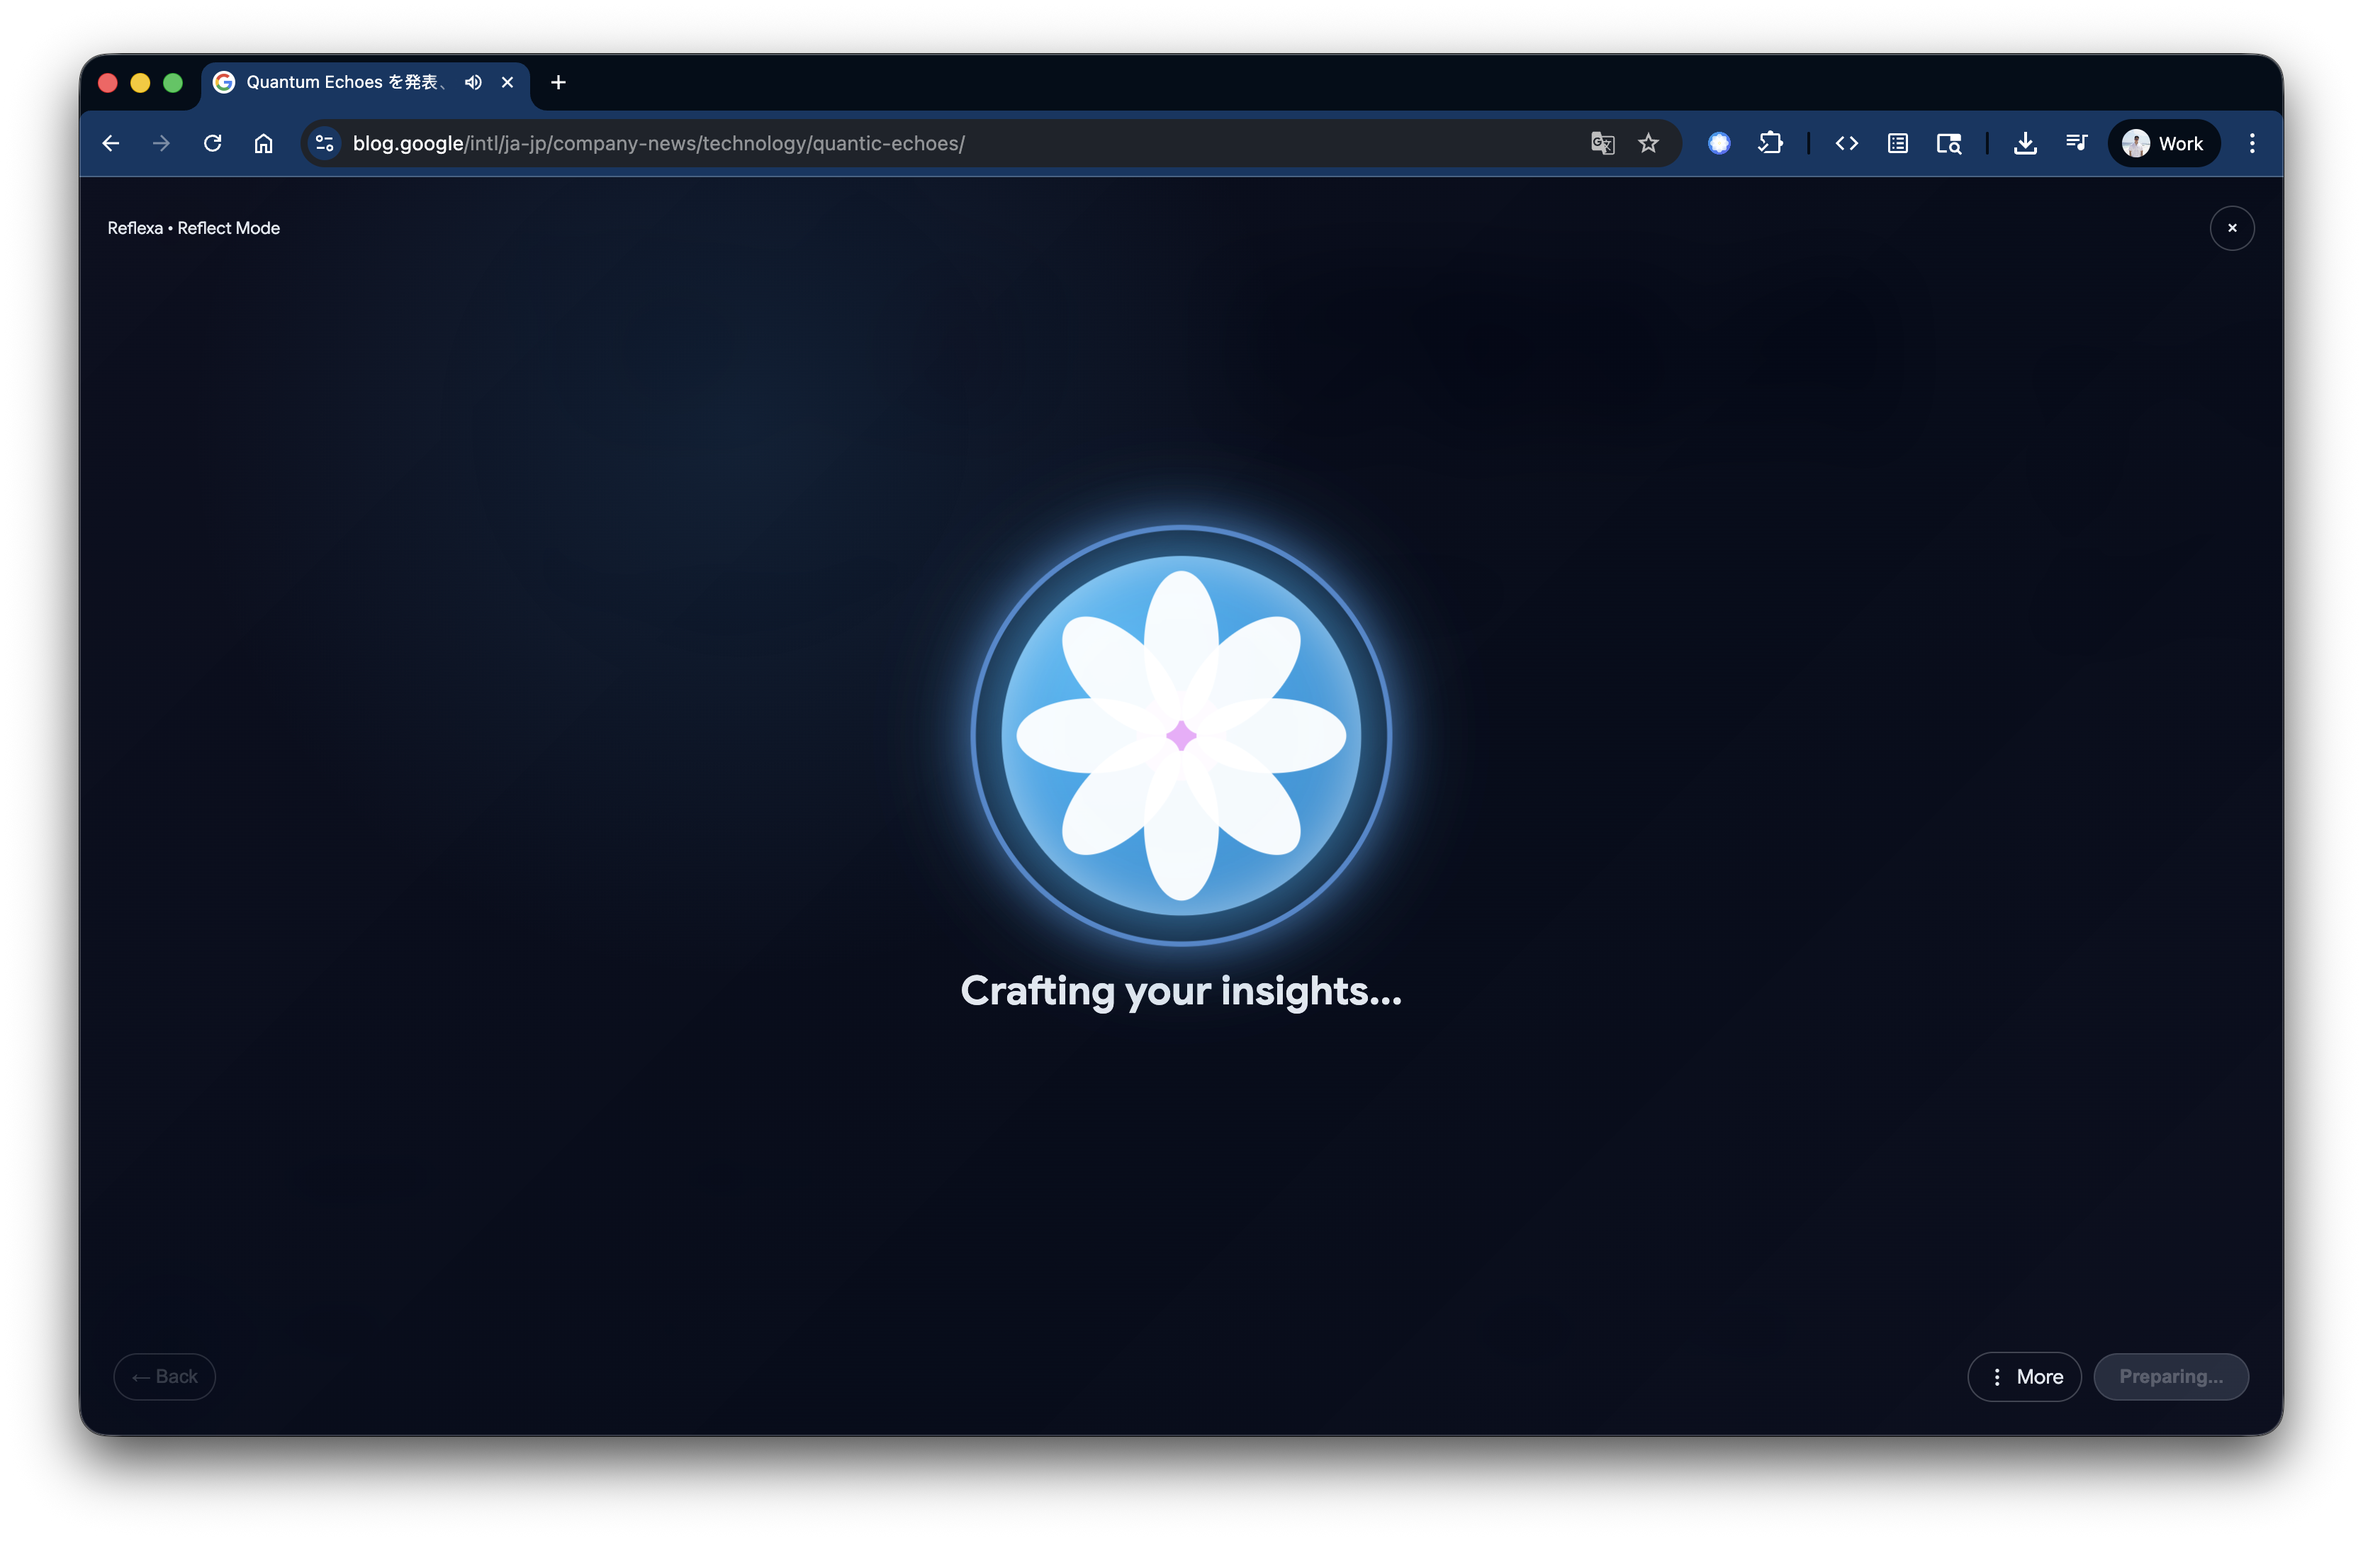
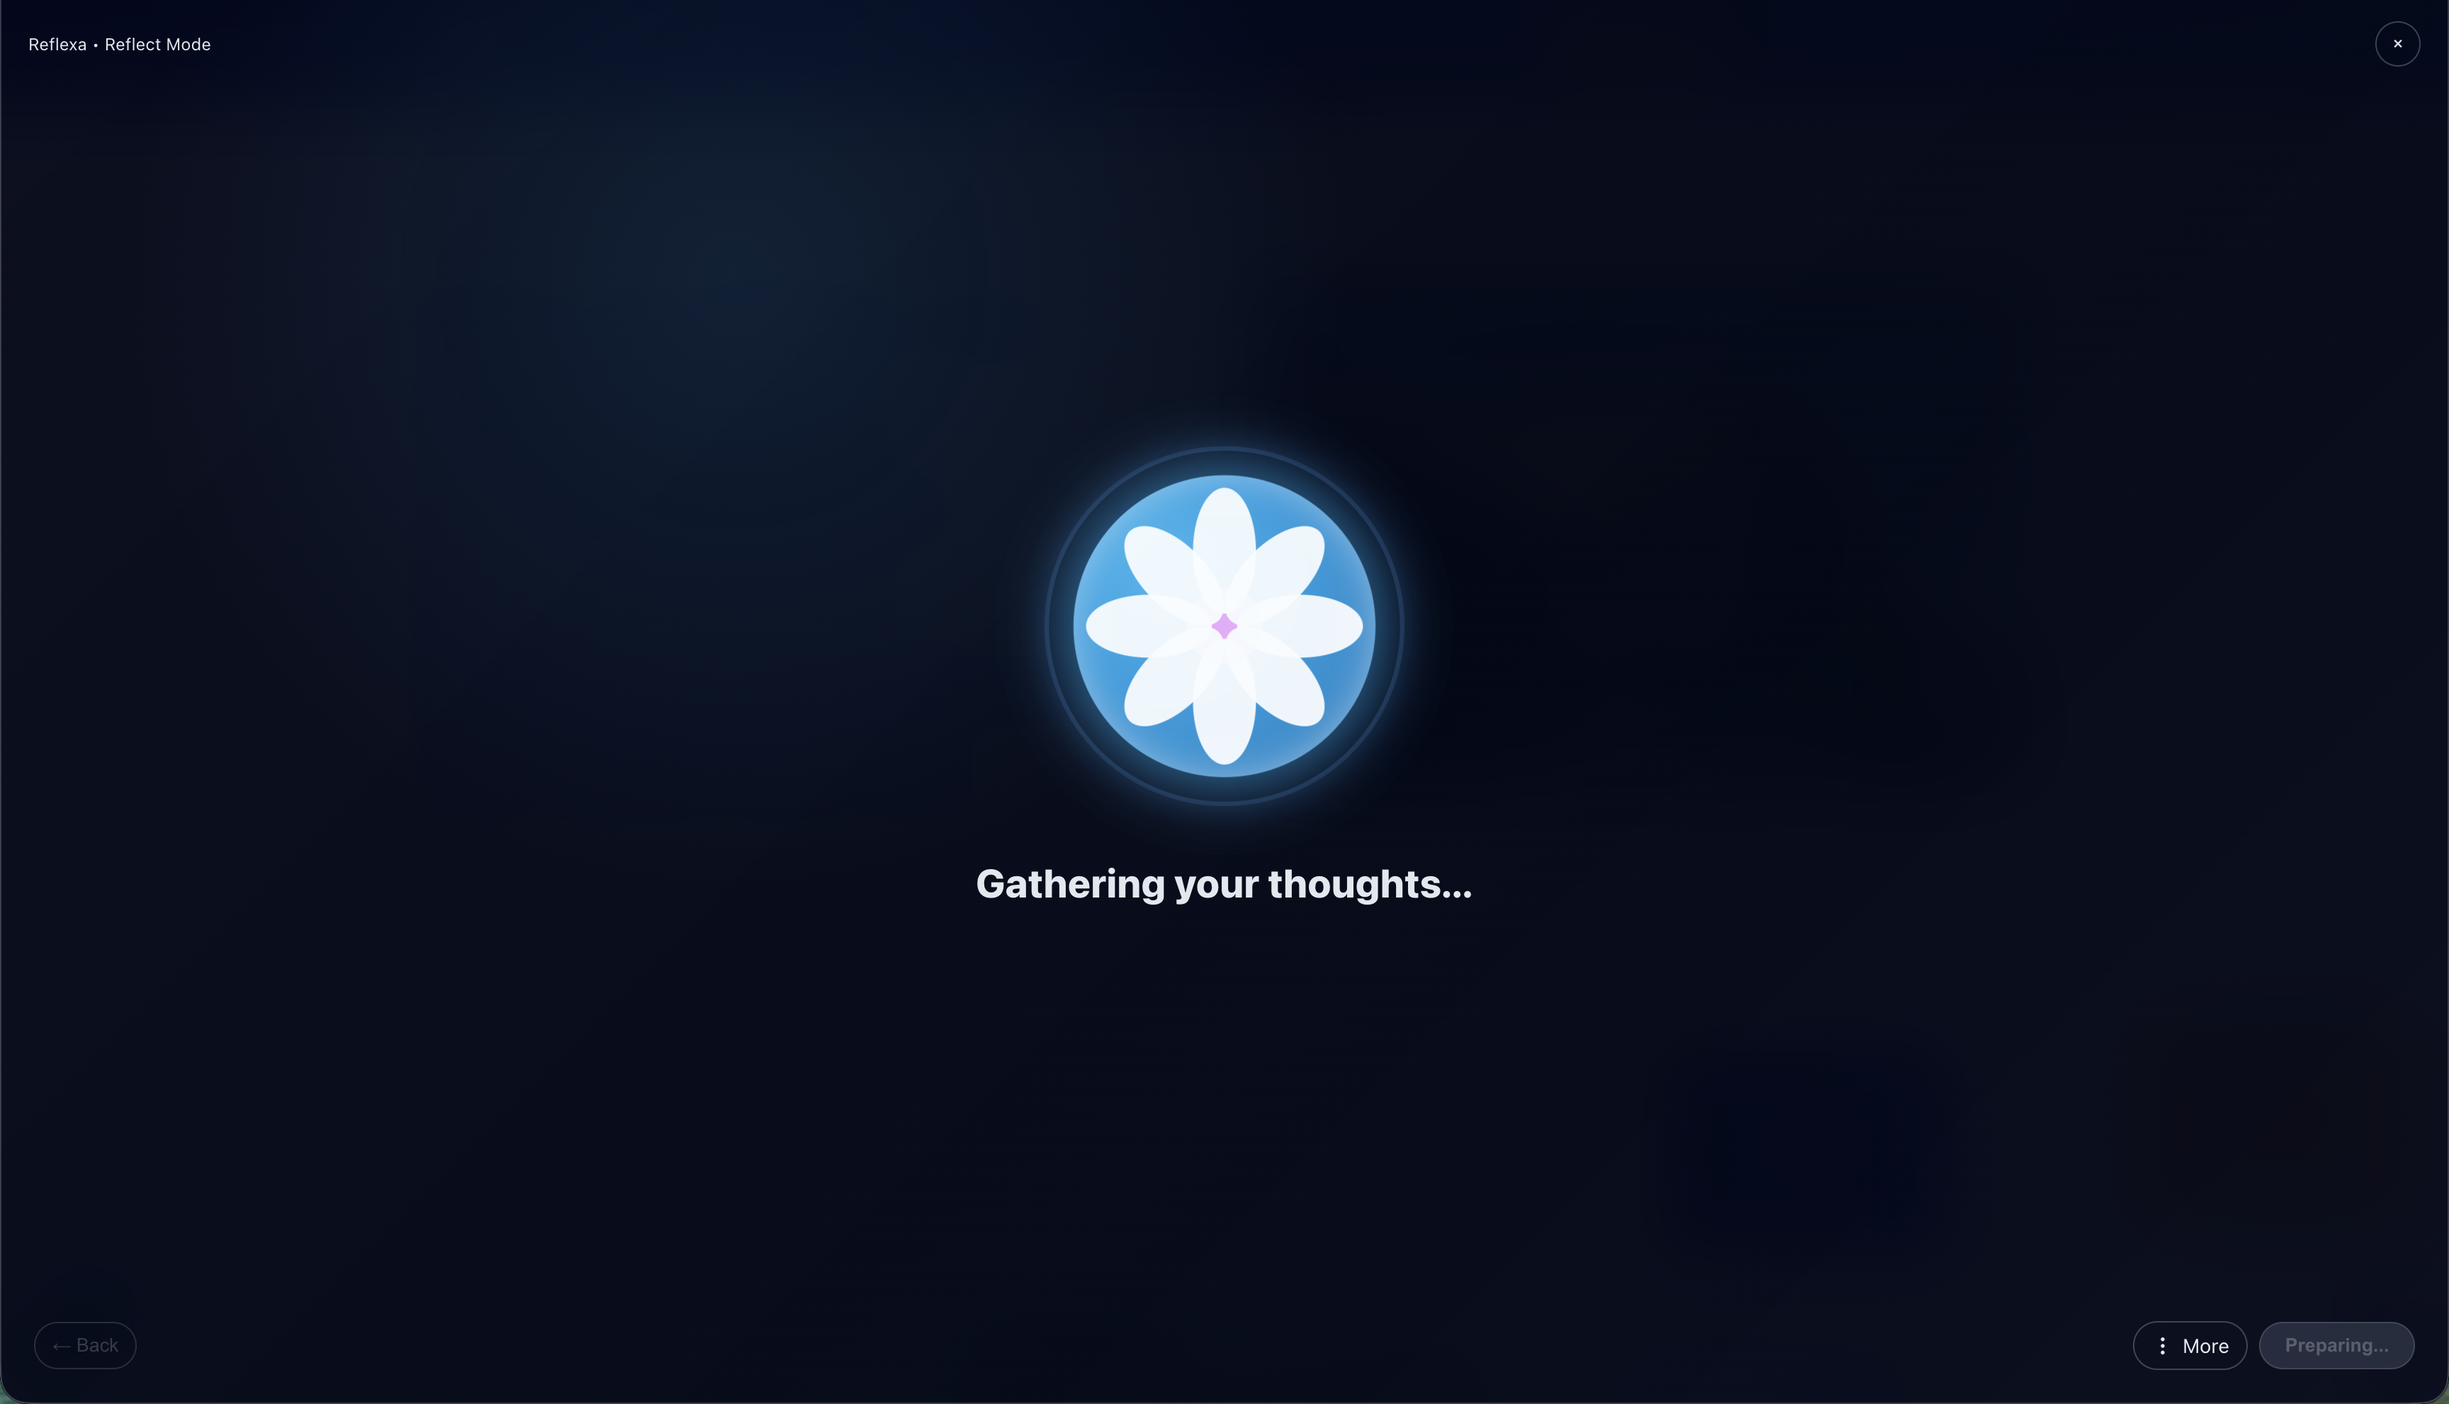
chore: Update project data by adding 'Hobby' skill, hiding 'Client' filter and 'mm-church' project, and refreshing Reflexa AI image.

Changed region(s): [[0.0, 0.0, 1.0, 1.0], [0.3743, 0.3078, 0.6239, 0.6771]]

diff --git a/app/projects/projects.data.ts b/app/projects/projects.data.ts
@@ -24,6 +24,7 @@ export const PROJECTS: Project[] = [
       "Rekognition",
       "Terraform",
       "Hackathon",
+      "Hobby",
     ],
     metrics: [
       "AWS AI Agent Global Hackathon 2025",
@@ -88,6 +89,7 @@ export const PROJECTS: Project[] = [
       "Vitest",
       "Gemini Nano",
       "Hackathon",
+      "Hobby",
     ],
     metrics: [
       "Google Chrome Built in AI Challenge 2025",
@@ -522,32 +524,32 @@ export const PROJECTS: Project[] = [
       },
     ],
   },
-  {
-    slug: "mm-church",
-    title: "Malayang Mananampalataya Church",
-    period: "2022",
-    blurb:
-      "A responsive and accessible church website built with React and a content‑first information architecture.",
-    image: {
-      src: "/images/home/mm-church.webp",
-      alt: "Malayang Mananampalataya Church",
-      width: 1200,
-      height: 675,
-      ratio: "1200/675",
-    },
-    skills: ["React", "Accessibility", "Content Architecture", "Client"],
-    metrics: ["Mobile‑first UX", "Fast loading", "Clear content structure"],
-    links: [
-      { label: "Github", href: "https://github.com/nesceal/mmchurch", icon: "github" },
-      { label: "View", href: "https://mmchurch.ph/", icon: "external" },
-    ],
-    sections: [
-      {
-        label: "Context",
-        content: "Focused on simple publishing and intuitive structure for a broad audience.",
-      },
-    ],
-  },
+  // {
+  //   slug: "mm-church",
+  //   title: "Malayang Mananampalataya Church",
+  //   period: "2022",
+  //   blurb:
+  //     "A responsive and accessible church website built with React and a content‑first information architecture.",
+  //   image: {
+  //     src: "/images/home/mm-church.webp",
+  //     alt: "Malayang Mananampalataya Church",
+  //     width: 1200,
+  //     height: 675,
+  //     ratio: "1200/675",
+  //   },
+  //   skills: ["React", "Accessibility", "Content Architecture", "Client"],
+  //   metrics: ["Mobile‑first UX", "Fast loading", "Clear content structure"],
+  //   links: [
+  //     { label: "Github", href: "https://github.com/nesceal/mmchurch", icon: "github" },
+  //     { label: "View", href: "https://mmchurch.ph/", icon: "external" },
+  //   ],
+  //   sections: [
+  //     {
+  //       label: "Context",
+  //       content: "Focused on simple publishing and intuitive structure for a broad audience.",
+  //     },
+  //   ],
+  // },
   {
     slug: "sync-flow",
     title: "SyncFlow",

diff --git a/app/projects/_components/SkillsAndCases.tsx b/app/projects/_components/SkillsAndCases.tsx
@@ -16,7 +16,7 @@ const SKILL_FILTERS = [
   "Enterprise",
   "Startup",
   "Hobby",
-  "Client",
+  // "Client",
   "Open Source",
   "Sandboxes",
 ] as const;
